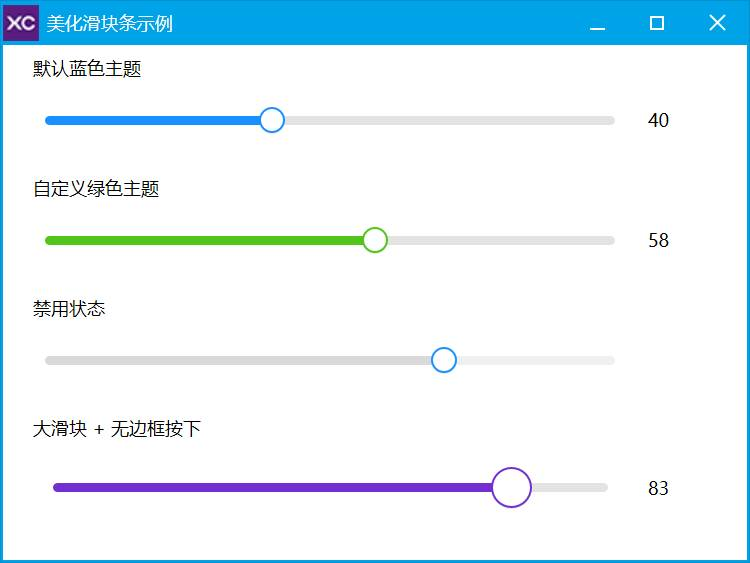
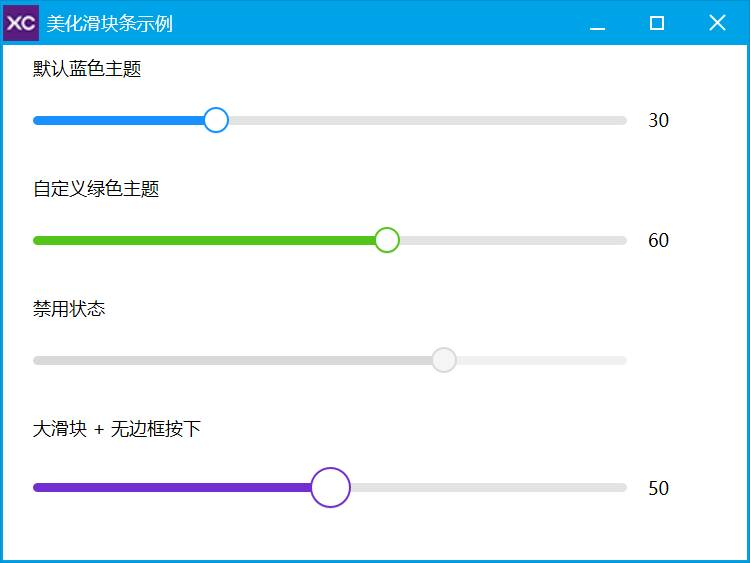
美化滑块条

diff --git a/Advanced/BeautifySliderBar/BeautifySliderBar.go b/Advanced/BeautifySliderBar/BeautifySliderBar.go
@@ -135,16 +135,16 @@ func (t *BeautifySliderBar) onTrackPaint(hEle int, hDraw int, pbHandled *bool) i
 	var rc xc.RECT
 	xc.XEle_GetClientRect(hEle, &rc)
 	rcH := rc.Bottom - rc.Top
-
-	// 轨道垂直居中
+	rcW := rc.Right - rc.Left
 	trackH := t.trackHeight
 	trackTop := (rcH - trackH) / 2
 	trackBottom := trackTop + trackH
 	thumbSize := t.thumbSize
-	// 轨道水平留出滑块半径的边距
-	padding := thumbSize / 2
-	trackLeft := rc.Left + padding
-	trackRight := rc.Right - padding
+	// 轨道几乎占满元素宽度, 两端各留 2px: 滑块圆自身内缩 2px 绘制,
+	// 这样 pos=0 时圆的左缘正好贴住轨道起点, pos=max 时右缘贴住终点,
+	// 圆不会悬在轨道外半个身位(滑块按钮行程 = 元素宽 - 按钮宽)。
+	trackLeft := rc.Left + 2
+	trackRight := rc.Right - 2
 	roundRadius := trackH / 2
 
 	// 计算当前进度比例
@@ -154,7 +154,8 @@ func (t *BeautifySliderBar) onTrackPaint(hEle int, hDraw int, pbHandled *bool) i
 	if range_ > 0 {
 		ratio = float32(pos) / float32(range_)
 	}
-	splitX := trackLeft + int32(float32(trackRight-trackLeft)*ratio+0.5)
+	// 分界点跟随滑块圆心: 圆心 = 元素左缘 + 半径 + ratio*行程
+	splitX := rc.Left + thumbSize/2 + int32(float32(rcW-thumbSize)*ratio+0.5)
 
 	isEnabled := xc.XEle_IsEnable(hEle)
 
@@ -214,10 +215,10 @@ func (t *BeautifySliderBar) onThumbPaint(hEle int, hDraw int, pbHandled *bool) i
 	rcW := rc.Right - rc.Left
 	rcH := rc.Bottom - rc.Top
 
-	isEnabled := xc.XEle_IsEnable(hEle)
-
-	// 获取滑块按钮状态
+	// 注意: 禁用是作用在滑动条上的, 滑块按钮作为子元素自身仍是启用态,
+	// 必须检查滑动条的启用状态, 否则禁用时滑块还是正常样式。
 	state := xc.XBtn_GetState(hEle) // Common_State3_
+	isEnabled := xc.XEle_IsEnable(t.Handle)
 
 	// 选择颜色
 	var thumbFill, thumbBorder uint32
